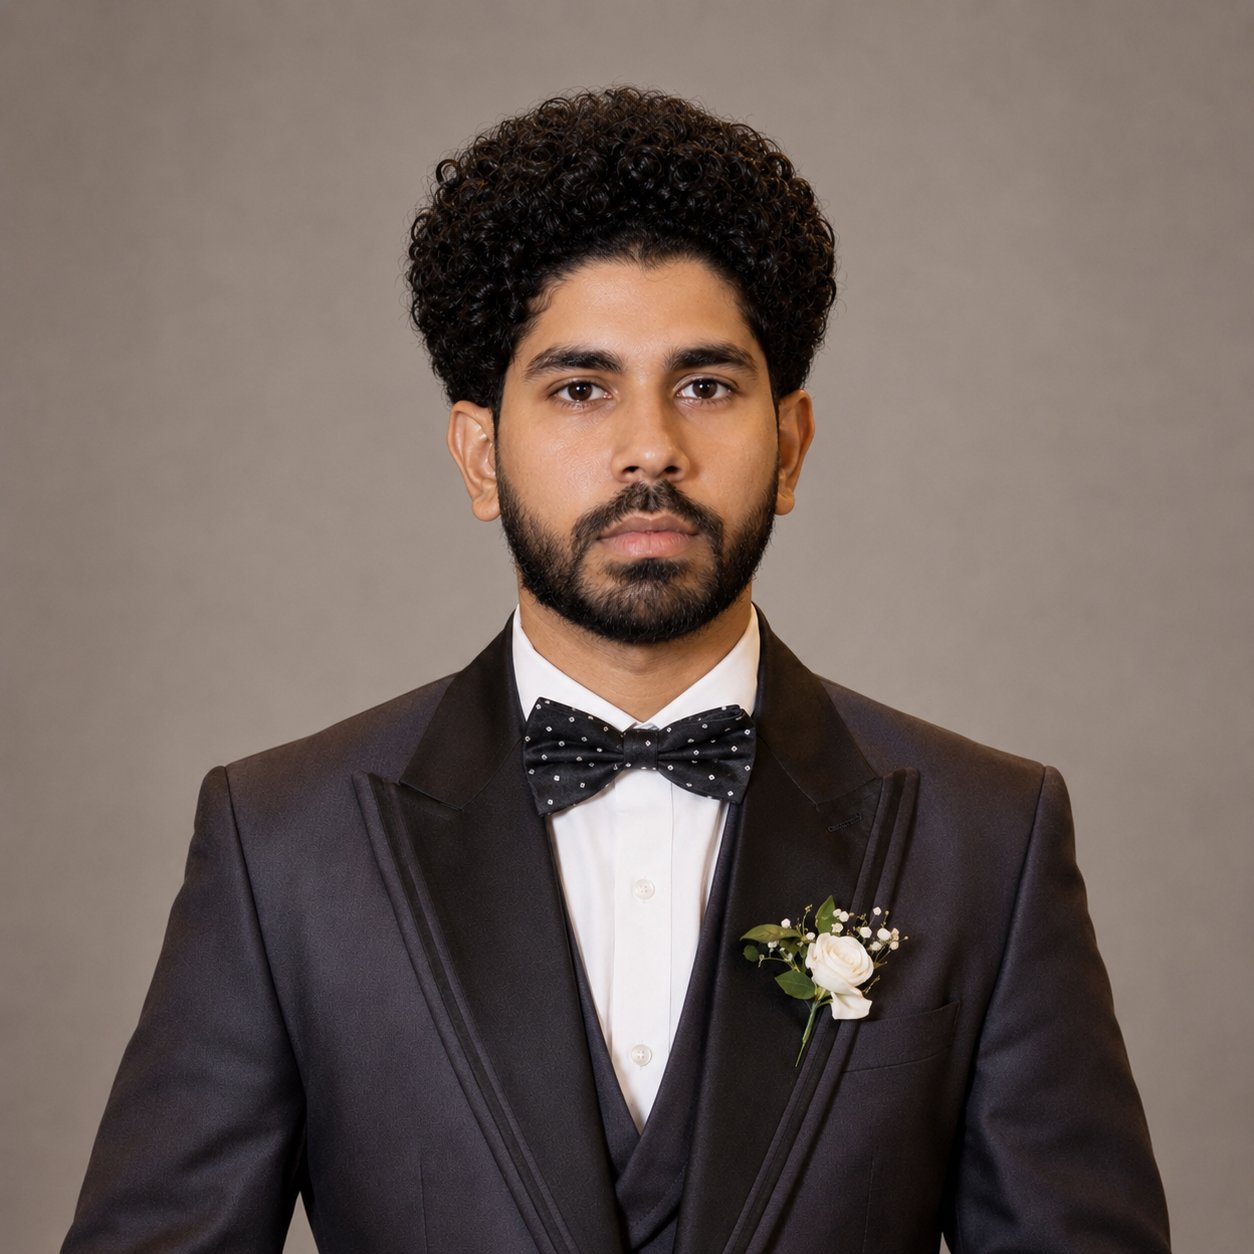
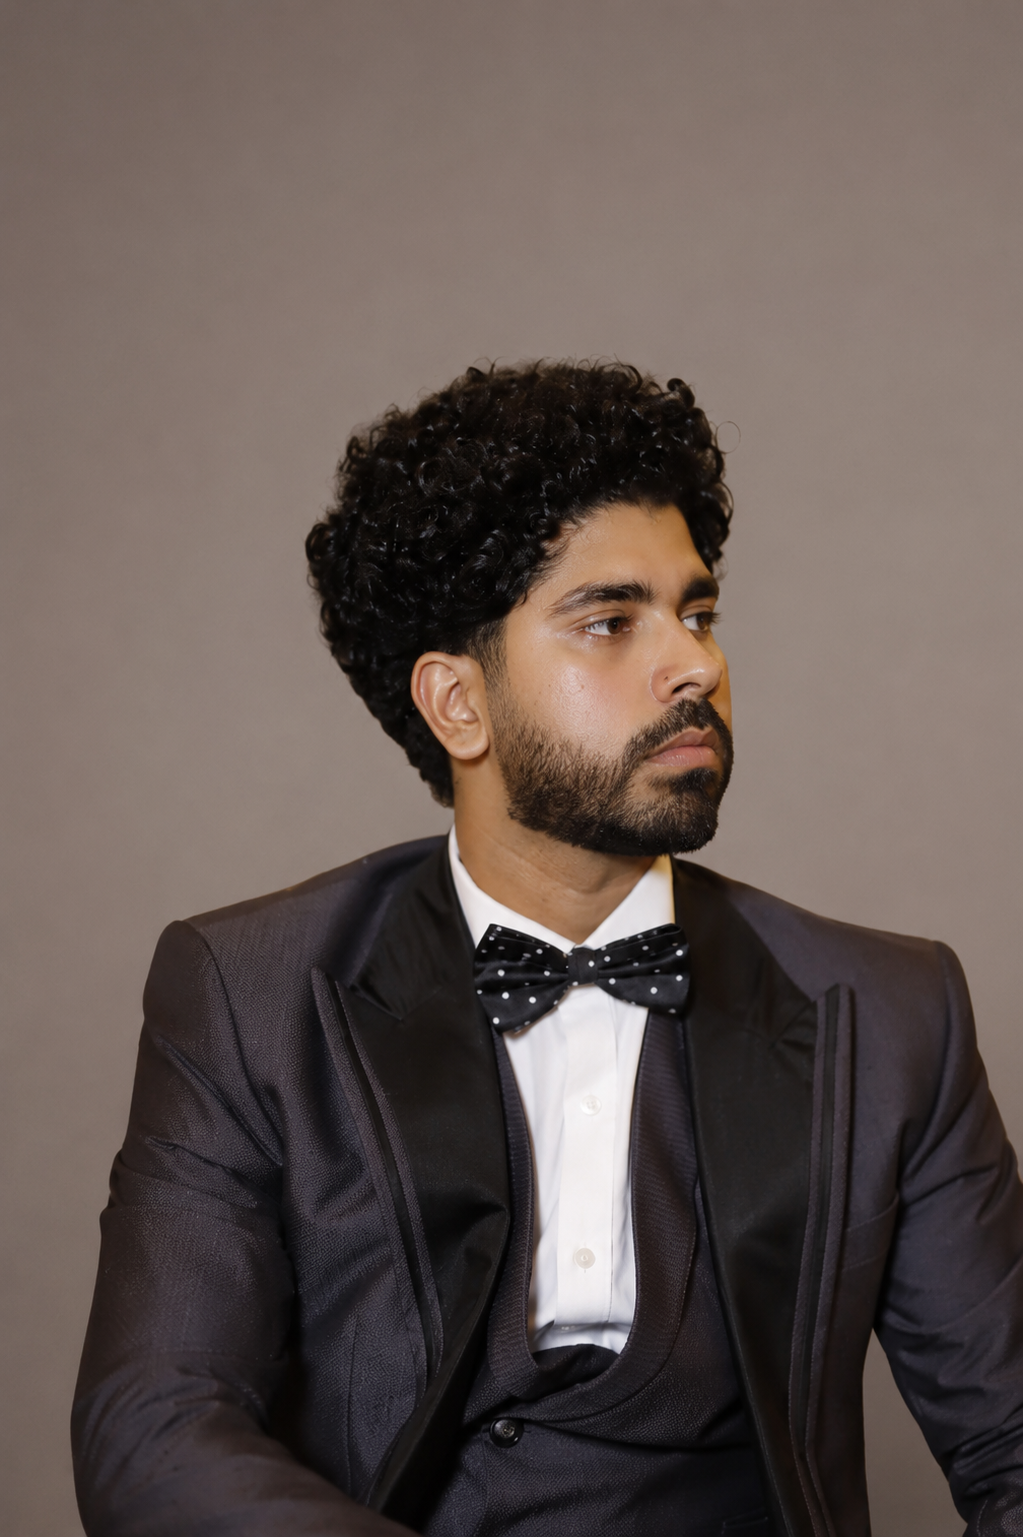
workflows

diff --git a/components/ProjectCard.tsx b/components/ProjectCard.tsx
@@ -55,7 +55,7 @@ export function ProjectCard({
             </span>
             <div className="flex-1">
               <div className="flex flex-col gap-1.5 sm:flex-row sm:items-baseline sm:gap-4">
-                <h3 className="heading-section text-3xl sm:text-4xl md:text-5xl lg:text-6xl">
+                <h3 className="heading-section text-3xl text-ink transition-colors duration-300 group-hover:text-accent sm:text-4xl md:text-5xl lg:text-6xl">
                   {project.title}
                 </h3>
                 <span className="text-sm text-ink-faint">{project.period}</span>
@@ -76,18 +76,28 @@ export function ProjectCard({
             </div>
           </div>
 
-          <motion.span
-            animate={{ rotate: open ? 45 : 0 }}
-            transition={{ duration: 0.3, ease: [0.22, 1, 0.36, 1] }}
-            className={clsx(
-              "flex h-12 w-12 shrink-0 items-center justify-center rounded-full border transition-colors",
-              open
-                ? "border-accent bg-accent text-paper-50"
-                : "border-ink/15 bg-paper-50 text-ink group-hover:border-ink/30"
-            )}
-          >
-            <Plus size={20} />
-          </motion.span>
+          <span className="flex shrink-0 items-center gap-3">
+            <span
+              className={clsx(
+                "text-xs uppercase tracking-[0.2em] transition-colors duration-300",
+                open ? "text-accent" : "text-ink-faint group-hover:text-ink"
+              )}
+            >
+              {open ? "Close" : "Expand"}
+            </span>
+            <motion.span
+              animate={{ rotate: open ? 45 : 0 }}
+              transition={{ duration: 0.3, ease: [0.22, 1, 0.36, 1] }}
+              className={clsx(
+                "flex h-12 w-12 items-center justify-center rounded-full border transition-colors duration-300",
+                open
+                  ? "border-accent bg-accent text-paper-50"
+                  : "border-ink/15 bg-paper-50 text-ink group-hover:border-accent group-hover:bg-accent group-hover:text-paper-50"
+              )}
+            >
+              <Plus size={20} />
+            </motion.span>
+          </span>
         </button>
 
         <AnimatePresence initial={false}>
@@ -229,7 +239,7 @@ function ProjectGallery({
               key={`${img.src}-${i}`}
               initial={{ opacity: 0, y: reduce ? 0 : 24 }}
               whileInView={{ opacity: 1, y: 0 }}
-              viewport={{ once: true, amount: 0.2 }}
+              viewport={{ once: false, amount: 0.2 }}
               transition={{
                 delay: i * 0.08,
                 duration: 0.7,

diff --git a/components/TechBadge.tsx b/components/TechBadge.tsx
@@ -84,28 +84,33 @@ export function TechBadge({
   const { Icon, color, label } = entry;
   const iconSize = size === "sm" ? 17 : 19;
 
-  // Icon-only badge: reveal the name in a tooltip on hover.
+  // Icon-only badge: a circle that smoothly expands into a pill revealing the
+  // name on hover. The label width animates via a grid column track so the
+  // transition stays smooth without measuring text.
   if (!showLabel) {
     return (
       <span
         className={clsx(
-          "group relative inline-flex items-center justify-center rounded-full border border-ink/10 bg-paper-50/80 backdrop-blur-sm transition-all duration-300 hover:-translate-y-0.5 hover:border-ink/20 hover:shadow-soft",
-          size === "sm" ? "h-9 w-9" : "h-10 w-10",
+          "group inline-flex items-center rounded-full border border-ink/10 bg-paper-50/80 backdrop-blur-sm transition-[box-shadow,transform,background-color,border-color] duration-300 hover:-translate-y-0.5 hover:border-ink/25 hover:bg-paper-50 hover:shadow-soft",
+          size === "sm" ? "h-9 pl-[7px] pr-[7px] hover:pr-3" : "h-10 pl-2 pr-2 hover:pr-3.5",
           className
         )}
         title={label}
       >
-        <Icon
-          className="transition-colors duration-300"
-          style={{ color }}
-          size={iconSize}
-          aria-hidden
-        />
-        <span
-          role="tooltip"
-          className="pointer-events-none absolute -top-9 left-1/2 z-10 -translate-x-1/2 translate-y-1 whitespace-nowrap rounded-md bg-ink px-2.5 py-1 text-xs font-medium text-paper-50 opacity-0 shadow-soft transition-all duration-200 group-hover:translate-y-0 group-hover:opacity-100"
-        >
-          {label}
+        <span className="flex shrink-0 items-center justify-center">
+          <Icon
+            className="transition-colors duration-300"
+            style={{ color }}
+            size={iconSize}
+            aria-hidden
+          />
+        </span>
+        <span className="grid grid-cols-[0fr] transition-[grid-template-columns] duration-300 ease-out group-hover:grid-cols-[1fr]">
+          <span className="overflow-hidden">
+            <span className="block whitespace-nowrap pl-2 pr-0.5 font-sans text-xs font-medium text-ink-muted opacity-0 transition-opacity duration-200 group-hover:opacity-100 group-hover:delay-100">
+              {label}
+            </span>
+          </span>
         </span>
       </span>
     );

diff --git a/components/Contact.tsx b/components/Contact.tsx
@@ -28,12 +28,6 @@ const SOCIALS = [
     Icon: Github,
   },
   {
-    label: "WhatsApp",
-    handle: "+92 333 461 1172",
-    href: "https://wa.me/923334611172",
-    Icon: SiWhatsapp,
-  },
-  {
     label: "Email",
     handle: "[email redacted]",
     href: "mailto:[email redacted]",
@@ -98,9 +92,9 @@ export function Contact() {
               href="https://wa.me/923334611172"
               target="_blank"
               rel="noopener noreferrer"
-              className="group inline-flex items-center gap-2 rounded-full bg-[#25D366] px-6 py-3.5 text-sm font-medium text-white transition-all duration-300 hover:bg-[#1da851]"
+              className="group inline-flex items-center gap-2 rounded-full border border-ink/15 bg-paper-50/70 px-6 py-3.5 text-sm font-medium text-ink backdrop-blur transition-all duration-300 hover:border-ink/30 hover:bg-paper-50"
             >
-              <SiWhatsapp size={16} />
+              <SiWhatsapp size={16} className="text-[#3f8f5f]" />
               Message on WhatsApp
             </a>
             <a
@@ -114,7 +108,7 @@ export function Contact() {
           </div>
         </Reveal>
 
-        <div className="mt-20 grid grid-cols-1 gap-px overflow-hidden rounded-2xl border border-ink/10 bg-ink/10 sm:grid-cols-2 lg:grid-cols-5">
+        <div className="mt-20 grid grid-cols-1 gap-px overflow-hidden rounded-2xl border border-ink/10 bg-ink/10 sm:grid-cols-2 lg:grid-cols-4">
           {SOCIALS.map((s, i) => (
             <motion.a
               key={s.label}
@@ -123,19 +117,19 @@ export function Contact() {
               rel={s.href.startsWith("http") ? "noopener noreferrer" : undefined}
               initial={{ opacity: 0, y: 16 }}
               whileInView={{ opacity: 1, y: 0 }}
-              viewport={{ once: true }}
+              viewport={{ once: false, amount: 0.3 }}
               transition={{ delay: 0.1 + i * 0.08, duration: 0.6 }}
-              className="group relative flex items-center justify-between gap-4 bg-paper-100 p-6 transition-colors duration-300 hover:bg-paper-50 md:p-8"
+              className="group relative flex items-center justify-between gap-3 bg-paper-100 p-6 transition-colors duration-300 hover:bg-paper-50 md:p-7"
             >
-              <div>
+              <div className="min-w-0">
                 <p className="text-xs uppercase tracking-[0.22em] text-ink-faint">
                   {s.label}
                 </p>
-                <p className="mt-2 font-serif text-base text-ink md:text-lg">
+                <p className="mt-2 truncate font-serif text-base text-ink">
                   {s.handle}
                 </p>
               </div>
-              <span className="flex h-10 w-10 items-center justify-center rounded-full border border-ink/10 text-ink-muted transition-all duration-300 group-hover:border-accent group-hover:bg-accent group-hover:text-paper-50">
+              <span className="flex h-10 w-10 shrink-0 items-center justify-center rounded-full border border-ink/10 text-ink-muted transition-all duration-300 group-hover:border-accent group-hover:bg-accent group-hover:text-paper-50">
                 <s.Icon size={16} />
               </span>
             </motion.a>

diff --git a/components/Experience.tsx b/components/Experience.tsx
@@ -40,7 +40,7 @@ export function Experience() {
                       type: "spring",
                       stiffness: 200,
                     }}
-                    viewport={{ once: true }}
+                    viewport={{ once: false, amount: 0.6 }}
                     className="absolute left-0 top-2 hidden h-6 w-6 items-center justify-center rounded-full border border-ink/15 bg-paper-50 md:flex"
                   >
                     <span className="h-2 w-2 rounded-full bg-accent" />
@@ -75,7 +75,7 @@ export function Experience() {
                                 key={j}
                                 initial={{ opacity: 0, x: -8 }}
                                 whileInView={{ opacity: 1, x: 0 }}
-                                viewport={{ once: true }}
+                                viewport={{ once: false, amount: 0.4 }}
                                 transition={{
                                   delay: 0.1 + j * 0.05,
                                   duration: 0.5,

diff --git a/components/Reveal.tsx b/components/Reveal.tsx
@@ -17,7 +17,7 @@ export function Reveal({
   delay = 0,
   y = 24,
   className,
-  once = true,
+  once = false,
   amount = 0.2,
 }: RevealProps) {
   const reduce = useReducedMotion();
@@ -61,7 +61,7 @@ export function Stagger({
   delay = 0,
   stagger = 0.08,
   className,
-  once = true,
+  once = false,
 }: StaggerProps) {
   return (
     <motion.div

diff --git a/components/About.tsx b/components/About.tsx
@@ -73,7 +73,7 @@ export function About() {
                     BS Computer Science
                     <br />
                     <span className="text-sm text-ink-muted">
-                      Forman Christian College
+                      Forman Christian College University
                     </span>
                   </p>
                 </div>

diff --git a/components/Hero.tsx b/components/Hero.tsx
@@ -138,7 +138,7 @@ export function Hero() {
                 fill
                 priority
                 sizes="(max-width: 768px) 80vw, 420px"
-                className="object-cover"
+                className="object-cover object-[center_28%]"
               />
             </div>
             <motion.div

diff --git a/components/Projects.tsx b/components/Projects.tsx
@@ -26,7 +26,6 @@ export function Projects() {
             key={project.id}
             project={project}
             index={i}
-            defaultOpen={i === 0}
             onImageClick={setLightbox}
           />
         ))}